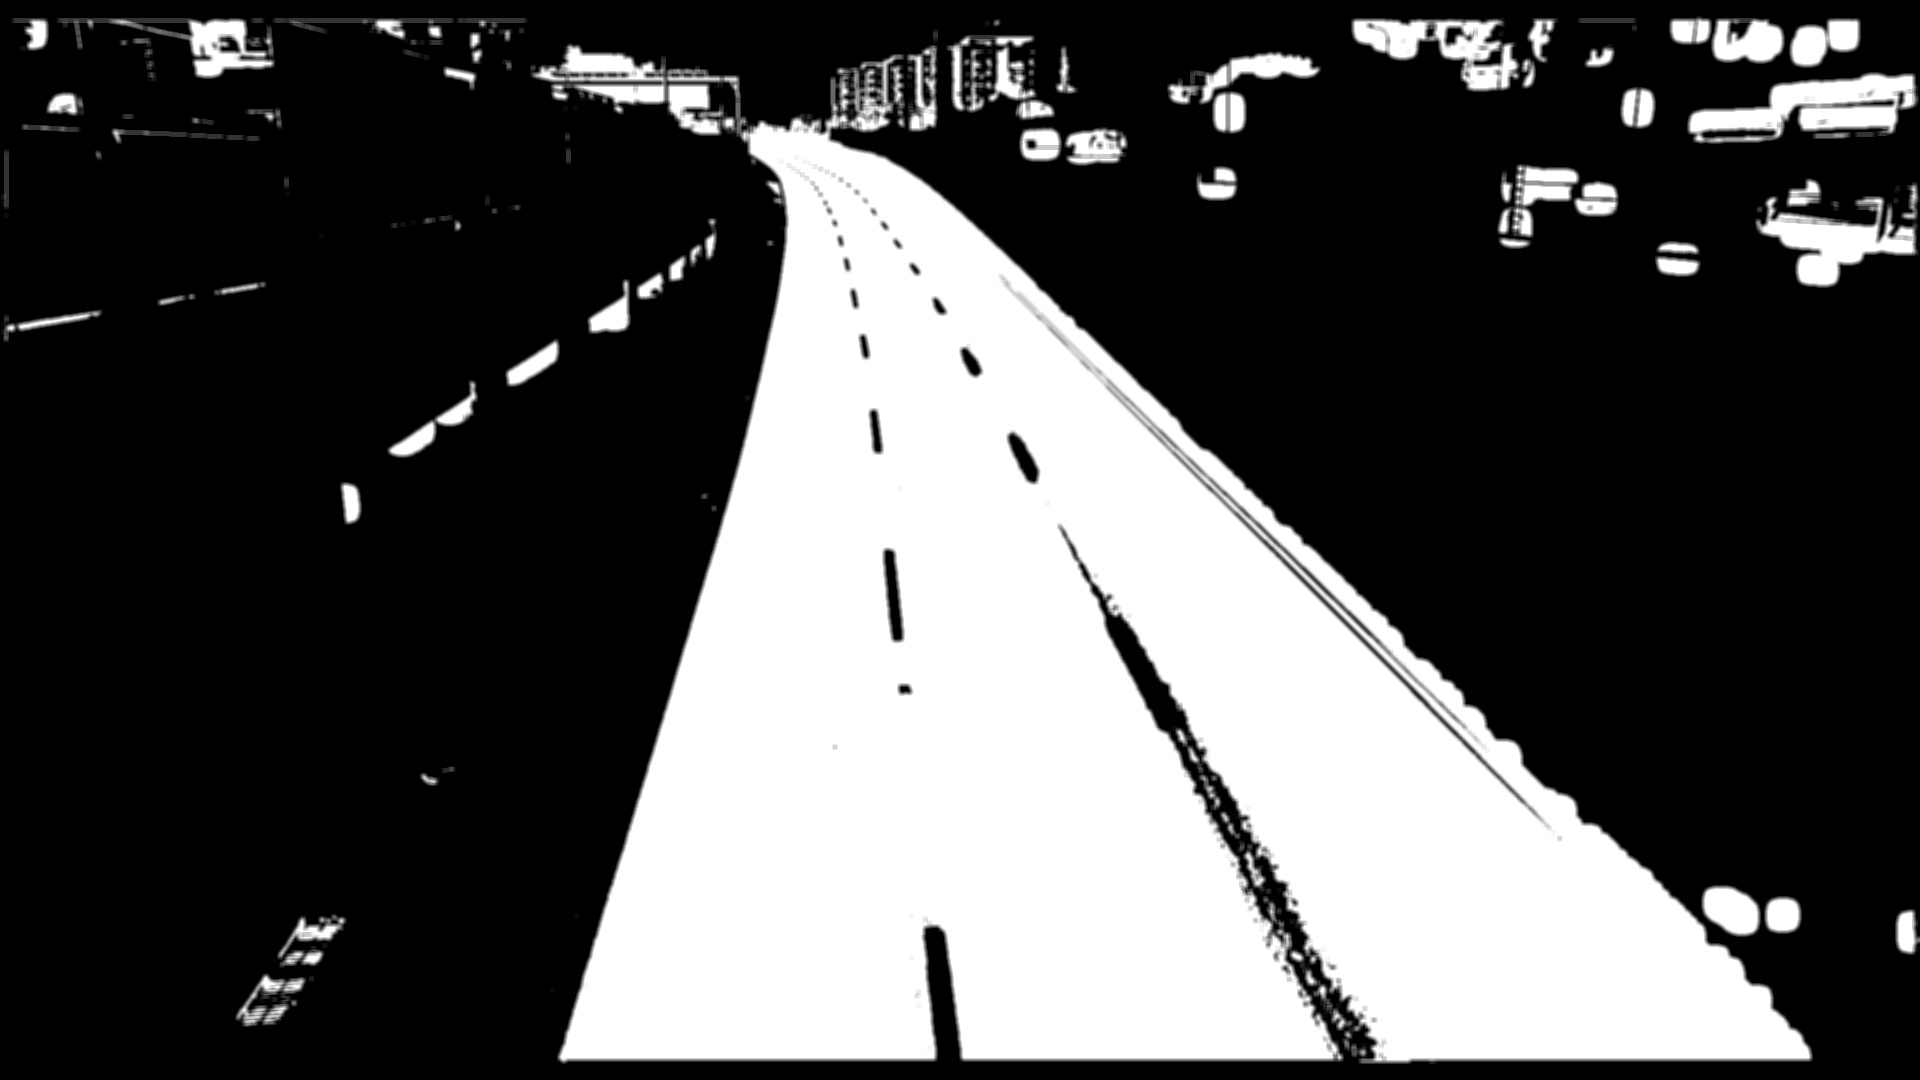
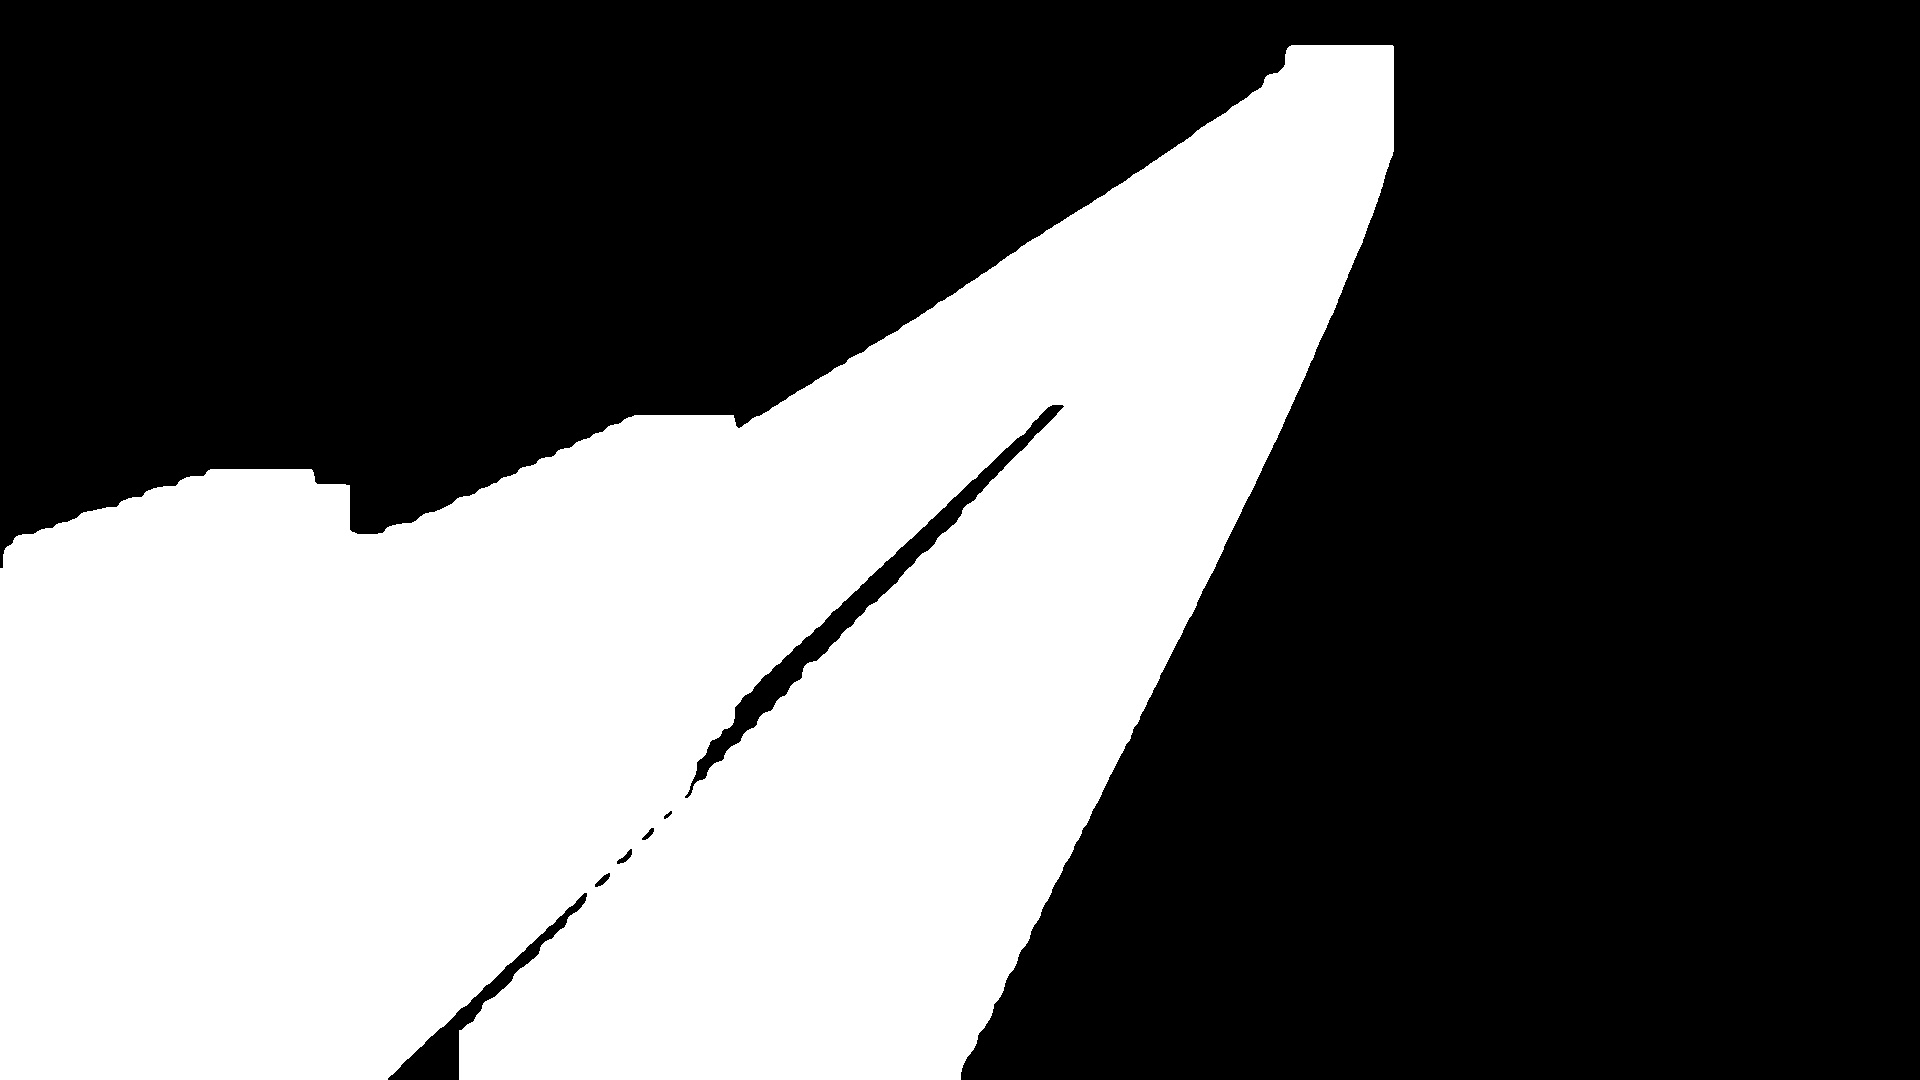
with tracker

diff --git a/VehicleTracking_SafetyRaiting/Algorithms.py b/VehicleTracking_SafetyRaiting/Algorithms.py
@@ -1,6 +1,6 @@
 import cv2
 import numpy as np
-
+import EuclideanDistTracker
 
 def resultPath(filePath):
     lastDot = filePath.rfind('.')
@@ -27,41 +27,54 @@ def showVideo(path):
 
 grayScaleRoad = "grayScaleRoad.jpg"
 
-def buildRoi(path):
+def preProcessing(path):
     cap = cv2.VideoCapture(path)
     ret,oldFrame = cap.read()
     oldGrayFrame = cv2.cvtColor(oldFrame, cv2.COLOR_BGR2GRAY) 
     blank = np.zeros(oldFrame.shape, np.uint8)
-    frames = []
-
+    
+    #create Roi base on the 10% first frame
     for _ in range(int(cap.get(7)*0.1)): 
         ret, frame = cap.read()
         grayframe = cv2.cvtColor(frame, cv2.COLOR_BGR2GRAY)
-        frames.append(grayframe)  
-        result = cv2.absdiff(grayframe,oldGrayFrame)
-
-        if np.mean(result)!=0: 
-            result = cv2.threshold(result, 30, 255, cv2.THRESH_BINARY)[1]
-            result = cv2.GaussianBlur(result,(11,11),7)
-            contours,_ = cv2.findContours(result,cv2.RETR_TREE, cv2.CHAIN_APPROX_NONE)
-
-            for cnt in contours:
-                if cv2.contourArea(cnt)>150:
-                    cv2.drawContours(blank,cnt,-1,(255,255,255),20)
-
-        oldGrayFrame = grayframe
         
+        #image processing
+        result = cv2.absdiff(grayframe,oldGrayFrame)
+        result = cv2.GaussianBlur(result,(5,5),5)
+        result = cv2.threshold(result, 10, 255, cv2.THRESH_BINARY)[1]
+        result = cv2.GaussianBlur(result,(7,7),5)
+        result = cv2.threshold(result, 10, 255, cv2.THRESH_BINARY)[1]
+        kernel = np.ones((20,20),np.uint8)
+        result = cv2.morphologyEx(result, cv2.MORPH_OPEN, kernel)
+        result = cv2.morphologyEx(result, cv2.MORPH_CLOSE, kernel)
+        
+        #spread the contours on blank
+        contours,_ = cv2.findContours(result,cv2.RETR_TREE, cv2.CHAIN_APPROX_NONE)
+        for cnt in contours:
+            if cv2.contourArea(cnt)>150:
+                cv2.drawContours(blank,cnt,-1,(255,255,255),20)
+        #for continuesly
+        oldGrayFrame = grayframe
+    
+    #more image processing on the result
     blank = cv2.cvtColor(blank,cv2.COLOR_BGR2GRAY)
-    median = np.median(frames, axis=0).astype(dtype=np.uint8) 
-    result = median*blank
-    result = cv2.threshold(result, 120, 255, cv2.THRESH_BINARY)[1]
+    result = cv2.threshold(blank, 120, 255, cv2.THRESH_BINARY)[1]
     result = cv2.GaussianBlur(result,(5,5),10)
+    kernel = np.ones((100,100),np.uint8) 
+    result = cv2.threshold(result, 130, 255, cv2.THRESH_BINARY)[1]
+    result = cv2.morphologyEx(result, cv2.MORPH_OPEN, kernel)
+    
+    #save the outcome
     cv2.imwrite(grayScaleRoad, result)   
     cap.release()
 
 
-def frameDiffer(path):
+def robustTimeDerivativeDistribution(path):
+    tracker = EuclideanDistTracker.EuclideanDistTracker()
+    Roi = cv2.imread(grayScaleRoad)
     cap = cv2.VideoCapture(path)
+    
+    #initialize the first loop parameters
     ret,one = cap.read()
     ret,two = cap.read()
     oneGray = cv2.cvtColor(one, cv2.COLOR_BGR2GRAY) 
@@ -71,39 +84,62 @@ def frameDiffer(path):
     out = cv2.VideoWriter(resultPath(path), cv2.VideoWriter_fourcc(*'DIVX'), 23, size)
     
     while True:
-        Roi = cv2.imread(grayScaleRoad)
-
+        detection = []
         ret, three = cap.read()
-        if ret == False: 
-            break
+        if ret == False: break
             
         threeGray = cv2.cvtColor(three, cv2.COLOR_BGR2GRAY) 
         result = cv2.absdiff(threeGray,oneGray)
+        
+        #image processing    
         result = cv2.GaussianBlur(result,(5,5),5)
         result = cv2.threshold(result, 10, 255, cv2.THRESH_BINARY)[1]
         result = cv2.GaussianBlur(result,(7,7),5)
         result = cv2.threshold(result, 10, 255, cv2.THRESH_BINARY)[1]
-        kernel = np.ones((10,10),np.uint8)
+        kernel = np.ones((20,20),np.uint8)
         result = cv2.morphologyEx(result, cv2.MORPH_OPEN, kernel)
-        contours,_ = cv2.findContours(result,cv2.RETR_TREE, cv2.CHAIN_APPROX_NONE)
-
-        for cnt in contours:
-            if cv2.contourArea(cnt)>200:
-                x,y,w,h = cv2.boundingRect(cnt)
-                cx = (x+x+w)//2
-                cy = (y+y+h)//2
-                if sum(Roi[cy,cx])==0: 
-                    cv2.drawContours(three,cnt,-1,(0,0,255),2) 
-                else:
-                    cv2.drawContours(three,cnt,-1,(0,255,0),2) 
+        result = cv2.morphologyEx(result, cv2.MORPH_CLOSE, kernel)
         
-        out.write(three)
+        #find moving objects
+        contours,_ = cv2.findContours(result,cv2.RETR_TREE, cv2.CHAIN_APPROX_NONE)
+        for cnt in contours:
+            if cv2.contourArea(cnt)>2000:
+                x,y,w,h = cv2.boundingRect(cnt)
+                detection.append([x,y,w,h])
+                
+        #draw id and box in color base on their position
+        boxes_ids = tracker.update(detection)  
+        for box_id in boxes_ids:
+            x,y,w,h,id = box_id
+            cv2.putText(three,str(id),(x,y-15),cv2.FONT_HERSHEY_COMPLEX,1,(255,0,0),2)    
+            cx = (x+x+w)//2
+            cy = (y+y+h)//2
+            if sum(Roi[cy,cx])!=0: 
+                cv2.rectangle(three,(x,y),(x+w,y+h),(0,255,0),3)
+            else:
+                if cx<three.shape[1]//2:                
+                    cv2.rectangle(three,(x,y),(x+w,y+h),(0,165,255),3)
+                else:
+                    cv2.rectangle(three,(x,y),(x+w,y+h),(0,0,255),3)
+                out.write(three)
+        
+        #show the output            
+        cv2.imshow('f',three)
+        cv2.waitKey(30)
+        if cv2.waitKey(20) == 27: 
+            break
+
+        #for continuesly
         oneGray = twoGray
         twoGray = threeGray
         
 
 def runProgram(path):
-    buildRoi(path)
-    frameDiffer(path)
+    preProcessing(path)
+    robustTimeDerivativeDistribution(path)
     newPath = resultPath(path)
-    showVideo(newPath)
+    #showVideo(newPath)
+
+    roadDict(q, w, e, r, t):
+        #..........
+

diff --git a/VehicleTracking_SafetyRaiting/EuclideanDistTracker.py b/VehicleTracking_SafetyRaiting/EuclideanDistTracker.py
@@ -1,0 +1,48 @@
+import math
+
+class EuclideanDistTracker:
+    def __init__(self):
+        # Store the center positions of the objects
+        self.center_points = {}
+        # Keep the count of the IDs
+        # each time a new object id detected, the count will increase by one
+        self.id_count = 0
+
+
+    def update(self, objects_rect):
+        # Objects boxes and ids
+        objects_bbs_ids = []
+
+        # Get center point of new object
+        for rect in objects_rect:
+            x, y, w, h = rect
+            cx = (x + x + w) // 2
+            cy = (y + y + h) // 2
+
+            # Find out if that object was detected already
+            same_object_detected = False
+            for id, pt in self.center_points.items():
+                dist = math.hypot(cx - pt[0], cy - pt[1])
+
+                if dist < 25:
+                    self.center_points[id] = (cx, cy)
+                    objects_bbs_ids.append([x, y, w, h, id])
+                    same_object_detected = True
+                    break
+
+            # New object is detected we assign the ID to that object
+            if same_object_detected is False:
+                self.center_points[self.id_count] = (cx, cy)
+                objects_bbs_ids.append([x, y, w, h, self.id_count])
+                self.id_count += 1
+
+        # Clean the dictionary by center points to remove IDS not used anymore
+        new_center_points = {}
+        for obj_bb_id in objects_bbs_ids:
+            _, _, _, _, object_id = obj_bb_id
+            center = self.center_points[object_id]
+            new_center_points[object_id] = center
+
+        # Update dictionary with IDs not used removed
+        self.center_points = new_center_points.copy()
+        return objects_bbs_ids
